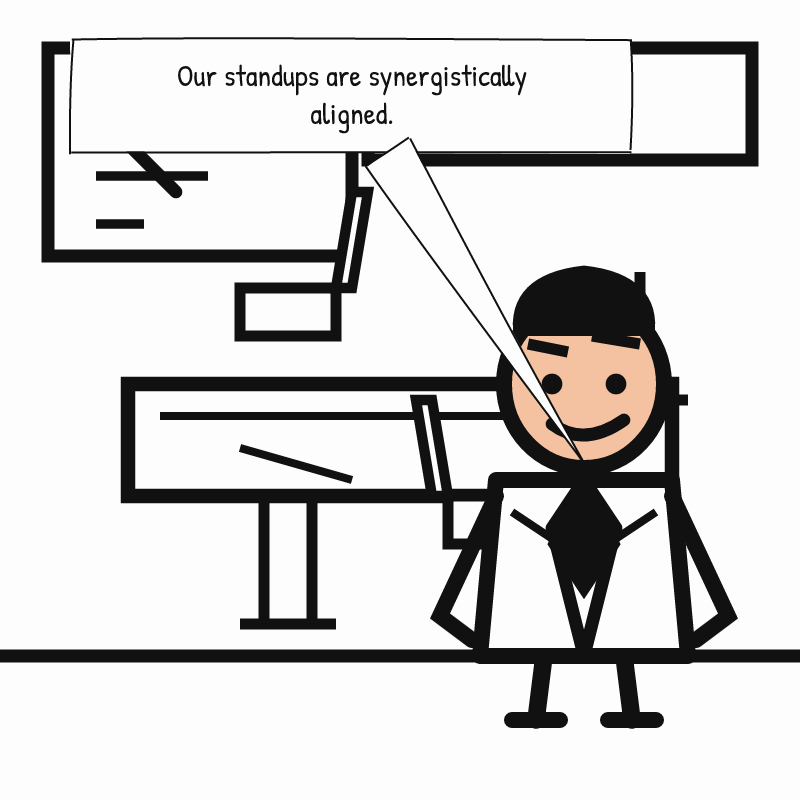
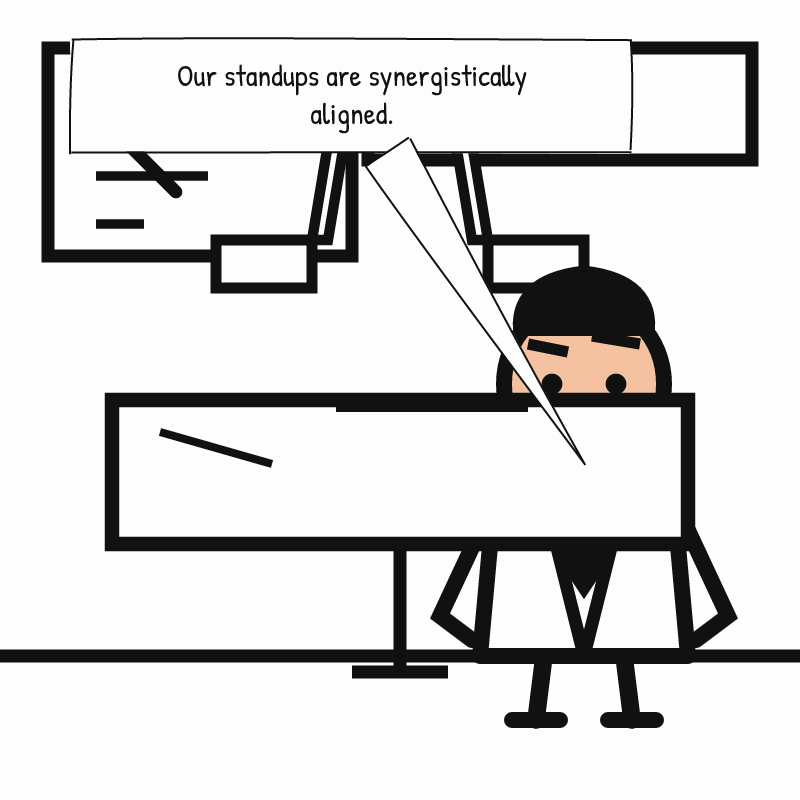
feat: multi-actor z-layering + per-actor bubbles; black worker tie; clean meeting-room redesign

diff --git a/src/renderer/compose.js b/src/renderer/compose.js
@@ -100,17 +100,30 @@ export function createNewDom() {
   return { dom, document: dom.window.document };
 }
 
+export const LAYER_Z = { back: -10, main: 0, front: 10 };
+
+function clamp(v, lo, hi) {
+  return Math.min(hi, Math.max(lo, v));
+}
+
 export function buildPanelGroup({ dom, document, rc, p, i, seed, assetsDir }) {
   const panelG = document.createElementNS(SVG_NS, 'g');
   panelG.appendChild(rc.rectangle(0, 0, PANEL, PANEL, { fill: '#fdfdfd', seed: seed + 0x1a2b }));
 
+  const paint = [];
+
   const bgPath = join(assetsDir, 'backgrounds', `${p.background}.svg`);
   const imported = importedSvgNodes(dom, bgPath);
-  const bgG = document.createElementNS(SVG_NS, 'g');
-  bgG.setAttribute('transform', 'scale(8)');
-  for (const n of imported.nodes) bgG.appendChild(document.importNode(n, true));
-  panelG.appendChild(bgG);
+  for (const n of imported.nodes) {
+    let z = Number(n.getAttribute('data-z') || 0);
+    if (!Number.isFinite(z)) z = 0;
+    const wrap = document.createElementNS(SVG_NS, 'g');
+    wrap.setAttribute('transform', 'scale(8)');
+    wrap.appendChild(document.importNode(n, true));
+    paint.push({ kind: 'bg', z, el: wrap });
+  }
 
+  const mouths = [];
   p.actors.forEach((a, j) => {
     const path = actorSvgPath(a.id, a.pose, a.expression);
     if (!path) return;
@@ -128,45 +141,62 @@ export function buildPanelGroup({ dom, document, rc, p, i, seed, assetsDir }) {
       if (id) clone.setAttribute('id', `${a.id}-${j}-${id}`);
       g.appendChild(clone);
     }
-    panelG.appendChild(g);
+    const z = LAYER_Z[a.layer] ?? LAYER_Z.main;
+    paint.push({ kind: 'actor', z, el: g });
+    mouths.push({
+      x: tx + (anchors.mouth.x - anchors.feet.x) * scale,
+      y: ty + (anchors.mouth.y - anchors.feet.y) * scale,
+    });
+  });
 
-    if (p.bubble) {
-      const bubblePx = (p.bubble.targetX / 100) * PANEL;
-      const bubblePy = (p.bubble.targetY / 100) * PANEL;
-      const { w, h, lines } = bubbleSize(p.bubble.text);
-      const mouth = {
-        x: tx + (anchors.mouth.x - anchors.feet.x) * scale,
-        y: ty + (anchors.mouth.y - anchors.feet.y) * scale,
-      };
-      const drawn = drawBubble({
-        rc,
-        style: p.bubble.style,
-        cx: bubblePx,
-        cy: bubblePy,
-        w,
-        h,
-        mouthAnchor: mouth,
-        seed,
-      });
-      const bubbleG = document.createElementNS(SVG_NS, 'g');
-      for (const s of drawn.shapes) bubbleG.appendChild(s);
-      panelG.appendChild(bubbleG);
+  paint.sort((u, v) => u.z - v.z);
+  for (const item of paint) panelG.appendChild(item.el);
 
-      const textG = document.createElementNS(SVG_NS, 'g');
-      const firstY = bubblePy - ((lines.length - 1) / 2) * TEXT.LINE_H + TEXT.FONT * 0.3;
-      lines.forEach((line, k) => {
-        const t = document.createElementNS(SVG_NS, 'text');
-        t.setAttribute('x', String(bubblePx));
-        t.setAttribute('y', String(Math.round(firstY + k * TEXT.LINE_H)));
-        t.setAttribute('text-anchor', 'middle');
-        t.setAttribute('font-family', 'Patrick Hand');
-        t.setAttribute('font-size', String(TEXT.FONT));
-        t.setAttribute('fill', '#111');
-        t.textContent = line;
-        textG.appendChild(t);
-      });
-      panelG.appendChild(textG);
+  const bubbles = p.bubble ? [p.bubble] : [];
+  if (Array.isArray(p.bubbles)) bubbles.push(...p.bubbles);
+
+  bubbles.forEach((b) => {
+    const { w, h, lines } = bubbleSize(b.text);
+    const anchor = b.actorIndex != null ? mouths[b.actorIndex] : mouths[mouths.length - 1];
+    let cx;
+    let cy;
+    if (b.targetX !== undefined && b.targetX !== null && b.targetY !== undefined && b.targetY !== null) {
+      cx = (b.targetX / 100) * PANEL;
+      cy = (b.targetY / 100) * PANEL;
+    } else {
+      cx = anchor.x;
+      cy = clamp(anchor.y - h - 10, 0, PANEL);
+      cx = clamp(cx, w / 2, PANEL - w / 2);
     }
+
+    const drawn = drawBubble({
+      rc,
+      style: b.style,
+      cx,
+      cy,
+      w,
+      h,
+      mouthAnchor: { x: anchor.x, y: anchor.y },
+      seed,
+    });
+    const bubbleG = document.createElementNS(SVG_NS, 'g');
+    for (const s of drawn.shapes) bubbleG.appendChild(s);
+    panelG.appendChild(bubbleG);
+
+    const textG = document.createElementNS(SVG_NS, 'g');
+    const firstY = cy - ((lines.length - 1) / 2) * TEXT.LINE_H + TEXT.FONT * 0.3;
+    lines.forEach((line, k) => {
+      const t = document.createElementNS(SVG_NS, 'text');
+      t.setAttribute('x', String(cx));
+      t.setAttribute('y', String(Math.round(firstY + k * TEXT.LINE_H)));
+      t.setAttribute('text-anchor', 'middle');
+      t.setAttribute('font-family', 'Patrick Hand');
+      t.setAttribute('font-size', String(TEXT.FONT));
+      t.setAttribute('fill', '#111');
+      t.textContent = line;
+      textG.appendChild(t);
+    });
+    panelG.appendChild(textG);
   });
 
   return panelG;

diff --git a/src/schema/validate.js b/src/schema/validate.js
@@ -88,6 +88,9 @@ export function validate(panel, manifest = null) {
         }
         if (!isNumInRange(a.positionX, 0, 100)) errors.push(`${atag}.positionX: number 0-100 required`);
         if (!isNumInRange(a.positionY, 0, 100)) errors.push(`${atag}.positionY: number 0-100 required`);
+        if (a.layer !== undefined && a.layer !== null && !['back', 'main', 'front'].includes(a.layer)) {
+          errors.push(`${atag}.layer: must be one of back|main|front`);
+        }
       });
     }
     if (p.bubble !== undefined && p.bubble !== null) {
@@ -108,6 +111,47 @@ export function validate(panel, manifest = null) {
         } else if (!(man.bubbleStyles || []).includes(b.style)) {
           errors.push(`${btag}.style: '${b.style}' not in bubbleStyles enum (${man.bubbleStyles.join(', ')})`);
         }
+      }
+    }
+    if (p.bubbles !== undefined && p.bubbles !== null) {
+      const btag = `${tag}.bubbles`;
+      if (!Array.isArray(p.bubbles)) {
+        errors.push(`${btag}: must be an array when present`);
+      } else {
+        p.bubbles.forEach((b, bi) => {
+          const bbi = `${btag}[${bi}]`;
+          if (!b || typeof b !== 'object') {
+            errors.push(`${bbi}: must be an object`);
+            return;
+          }
+          if (typeof b.text !== 'string' || b.text.trim().length === 0) {
+            errors.push(`${bbi}.text: required non-empty string`);
+          } else if (b.text.length > 90) {
+            errors.push(`${bbi}.text: ${b.text.length} chars > 90 max`);
+          }
+          if (typeof b.style !== 'string') {
+            errors.push(`${bbi}.style: required string`);
+          } else if (!(man.bubbleStyles || []).includes(b.style)) {
+            errors.push(`${bbi}.style: '${b.style}' not in bubbleStyles enum (${man.bubbleStyles.join(', ')})`);
+          }
+          if (b.actorIndex !== undefined && b.actorIndex !== null) {
+            if (!Number.isInteger(b.actorIndex)) {
+              errors.push(`${bbi}.actorIndex: integer required when present`);
+            } else if (!Array.isArray(p.actors) || b.actorIndex < 0 || b.actorIndex >= p.actors.length) {
+              errors.push(`${bbi}.actorIndex: must be in 0..${p.actors.length - 1}`);
+            }
+          }
+          if (b.targetX !== undefined && b.targetX !== null && !isNumInRange(b.targetX, 0, 100)) {
+            errors.push(`${bbi}.targetX: number 0-100 when present`);
+          }
+          if (b.targetY !== undefined && b.targetY !== null && !isNumInRange(b.targetY, 0, 100)) {
+            errors.push(`${bbi}.targetY: number 0-100 when present`);
+          }
+          if (b.actorIndex === undefined || b.actorIndex === null) {
+            if (b.targetX === undefined || b.targetX === null) errors.push(`${bbi}.targetX: required unless actorIndex is present`);
+            if (b.targetY === undefined || b.targetY === null) errors.push(`${bbi}.targetY: required unless actorIndex is present`);
+          }
+        });
       }
     }
   });
